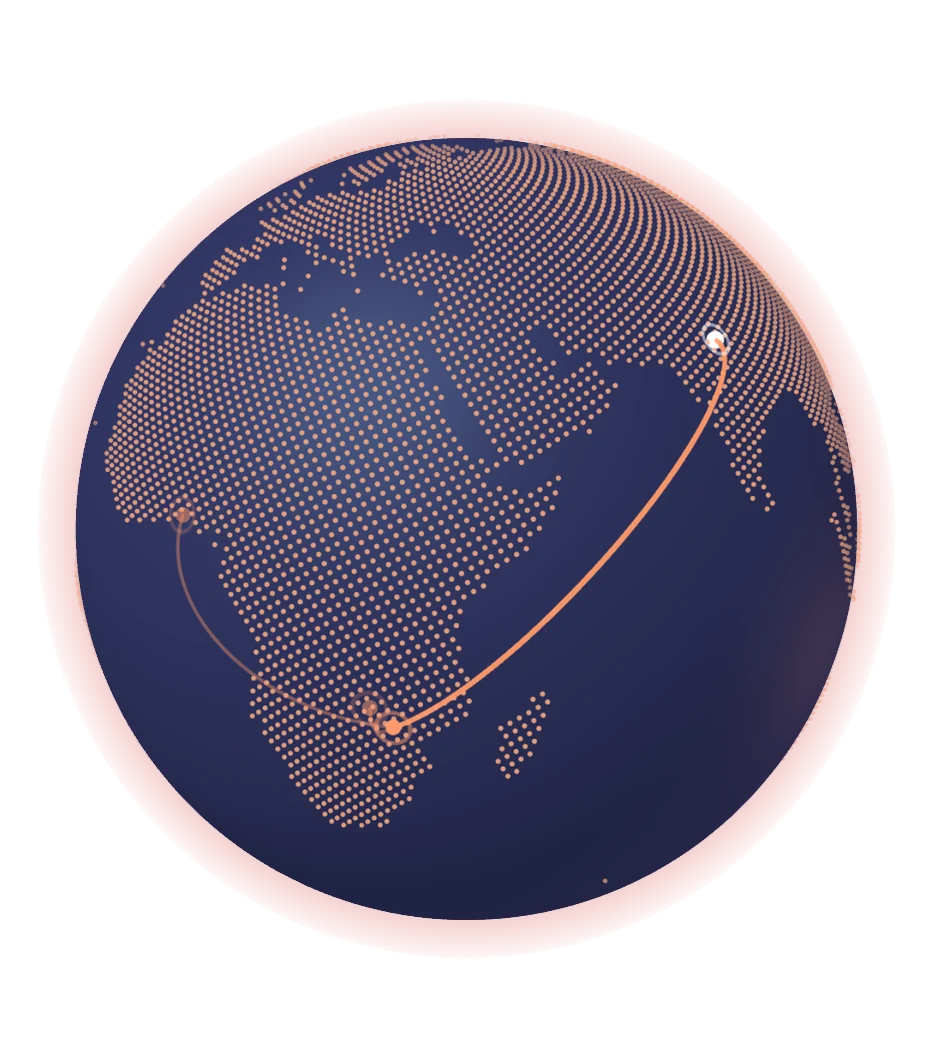
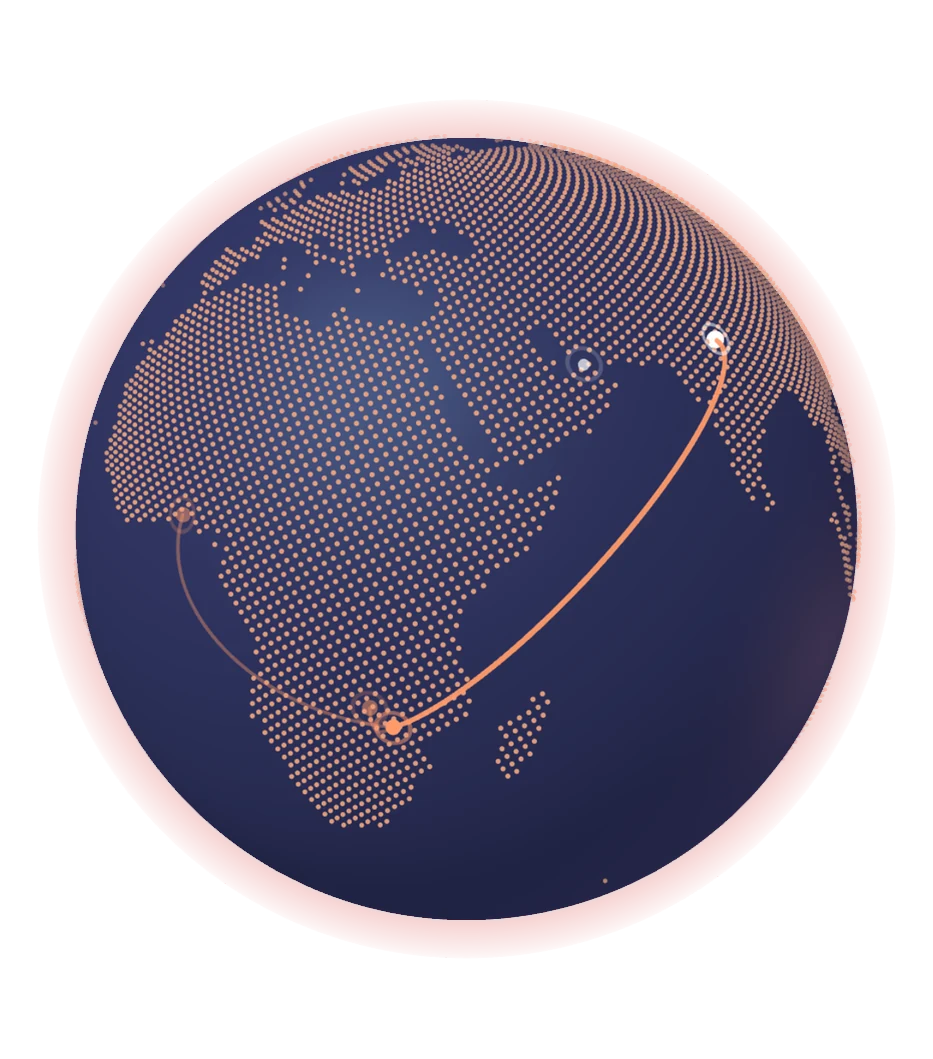
Audit fixes: restore what mattered, Dubai back as a team marker
Restored after a full audit against the resume:
- "My first 90 days in a new product role", word for word, ahead of the tools list.
- The fit check's location question (now seven questions again), including
  "UAE or the Middle East", without the repeated availability lines and without
  the "Based in Harare today" contradiction.
- Hero availability, in the resume's words: "To join immediately".
- A Call button in the contact section (the number is on the resume).

Globe: Dubai returns as a small neutral marker with no route, labelled
"UAE team I coordinate with"; fallback stills regenerated to match.

Resume wording: MBA marked "expected Dec 2026"; "webhooks" dropped (resume says
REST APIs and integrations). Case share buttons no longer read "Share Share this case".

diff --git a/index.html b/index.html
@@ -206,11 +206,11 @@
       .globe-canvas{position:absolute;inset:-4% -10% -4% -4%;cursor:grab;touch-action:pan-y}
       .globe.is-dragging .globe-canvas{cursor:grabbing}
       .globe-canvas canvas{display:block;width:100%;height:100%;outline:none}
-      .globe-still{position:absolute;inset:-4% -10% -4% -4%;background:center/contain no-repeat;background-image:url('assets/img/globe-day.webp?v=2');transition:opacity .6s ease}
-      :root[data-theme="dawn"] .globe-still{background-image:url('assets/img/globe-dawn.webp?v=2')}
-      :root[data-theme="dusk"] .globe-still{background-image:url('assets/img/globe-dusk.webp?v=2')}
-      :root[data-theme="night"] .globe-still{background-image:url('assets/img/globe-night.webp?v=2')}
-      @media (prefers-color-scheme: dark){ :root:not([data-theme]) .globe-still{background-image:url('assets/img/globe-night.webp?v=2')} }
+      .globe-still{position:absolute;inset:-4% -10% -4% -4%;background:center/contain no-repeat;background-image:url('assets/img/globe-day.webp?v=3');transition:opacity .6s ease}
+      :root[data-theme="dawn"] .globe-still{background-image:url('assets/img/globe-dawn.webp?v=3')}
+      :root[data-theme="dusk"] .globe-still{background-image:url('assets/img/globe-dusk.webp?v=3')}
+      :root[data-theme="night"] .globe-still{background-image:url('assets/img/globe-night.webp?v=3')}
+      @media (prefers-color-scheme: dark){ :root:not([data-theme]) .globe-still{background-image:url('assets/img/globe-night.webp?v=3')} }
       .globe.is-live .globe-still{opacity:0}
       .globe.is-fallback .globe-still{opacity:1}
       .globe.is-fallback .globe-canvas,.globe.is-fallback .globe-labels{display:none}
@@ -498,7 +498,7 @@
     </style>
     <link rel="stylesheet" href="assets/css/refinements.css?v=20261015n">
     <link rel="stylesheet" href="assets/css/fit.css?v=20261015">
-    <script src="assets/js/fit.js?v=20261015s" defer></script>
+    <script src="assets/js/fit.js?v=20261015u" defer></script>
     <link rel="stylesheet" href="assets/css/depth.css?v=20261015t">
     <script src="assets/js/depth.js?v=20261015t" defer></script>
     <link rel="stylesheet" href="assets/css/share.css?v=20261015">
@@ -547,6 +547,7 @@
           <dl class="facts">
             <div><dt>Based in</dt><dd>New Delhi (Delhi NCR)</dd></div>
             <div><dt>Open to</dt><dd>Relocation, hybrid and remote</dd></div>
+            <div><dt>Available</dt><dd>To join immediately</dd></div>
           </dl>
         </div>
 
@@ -558,10 +559,11 @@
             <div class="globe-label"><span>Harare<small>Launched: 8 depots</small></span></div>
             <div class="globe-label" data-side="left" data-v="below"><span>Lusaka<small>Evaluated · next rollout</small></span></div>
             <div class="globe-label" data-side="left"><span>Lagos<small>Evaluated · next rollout</small></span></div>
+            <div class="globe-label"><span>Dubai<small>UAE team I coordinate with</small></span></div>
           </div>
           <figcaption>
-            <span class="sr">Globe showing a route from New Delhi to Harare, the market I launched from zero and run, and fainter routes to Lusaka and Lagos, markets I evaluated for entry that are now the next rollouts.</span>
-            <span aria-hidden="true">Harare is the market I launched from zero. Lusaka and Lagos I evaluated; they are the next rollouts. <span class="drag">Drag to turn.</span></span>
+            <span class="sr">Globe showing a route from New Delhi to Harare, the market I launched from zero and run, and fainter routes to Lusaka and Lagos, markets I evaluated for entry that are now the next rollouts. A separate marker in Dubai shows the UAE team I coordinate with.</span>
+            <span aria-hidden="true">Harare is the market I launched from zero. Lusaka and Lagos I evaluated; they are the next rollouts. Dubai is the UAE team I coordinate with. <span class="drag">Drag to turn.</span></span>
           </figcaption>
         </figure>
       </div>
@@ -724,7 +726,7 @@
                 <div><h4>Result</h4><p>Savings did not arrive in month one. As the controls and site behaviour settled, the pilot <b>cut loss, theft and spillage over six months</b>.</p></div>
                 <div class="full"><h4>What I'd do differently</h4><p>Set the expectation of a ramp in the contract. A saving that climbs over six months reads as a miss in month two unless the buyer was shown the curve first.</p></div>
                 <p class="page-link"><a href="/work/iot-loss-control/">Read it as a full page, with related work</a></p>
-                <p class="case-share"><button class="btn btn-ghost btn-sm" type="button" data-share data-share-url="https://pryank18.github.io/work/iot-loss-control/" data-share-title="IoT loss-control platform for heavy industry: case study by Pryank Wadhera" data-share-text="A product case study by Pryank Wadhera." data-share-type="case_study" data-share-id="iot-loss-control" aria-label="Share Share this case"><svg class="share-ico" viewBox="0 0 24 24" aria-hidden="true"><path d="M12 3v12M8 7l4-4 4 4M5 12v7a2 2 0 0 0 2 2h10a2 2 0 0 0 2-2v-7"/></svg>Share this case</button></p>
+                <p class="case-share"><button class="btn btn-ghost btn-sm" type="button" data-share data-share-url="https://pryank18.github.io/work/iot-loss-control/" data-share-title="IoT loss-control platform for heavy industry: case study by Pryank Wadhera" data-share-text="A product case study by Pryank Wadhera." data-share-type="case_study" data-share-id="iot-loss-control" aria-label="Share this case: IoT loss-control platform for heavy industry: case study by Pryank Wadhera"><svg class="share-ico" viewBox="0 0 24 24" aria-hidden="true"><path d="M12 3v12M8 7l4-4 4 4M5 12v7a2 2 0 0 0 2 2h10a2 2 0 0 0 2-2v-7"/></svg>Share this case</button></p>
               </div>
             </details>
             <details id="case-upi">
@@ -739,7 +741,7 @@
                 <div><h4>Result</h4><p><b>2,000+ UPI transactions in month one of the internal pilot</b>, and the failure and reconciliation paths got real traffic before any customer relied on them.</p></div>
                 <div class="full"><h4>Alongside it</h4><p>Partnered with the GM and CEO on Project Arjun, an EV and oil &amp; gas retail infrastructure plan built on 100+ fleet and EV operator interviews; plan approved by leadership.</p></div>
                 <p class="page-link"><a href="/work/upi-checkout/">Read it as a full page, with related work</a></p>
-                <p class="case-share"><button class="btn btn-ghost btn-sm" type="button" data-share data-share-url="https://pryank18.github.io/work/upi-checkout/" data-share-title="UPI Intent and QR checkout for a B2B platform: case study by Pryank Wadhera" data-share-text="A product case study by Pryank Wadhera." data-share-type="case_study" data-share-id="upi-checkout" aria-label="Share Share this case"><svg class="share-ico" viewBox="0 0 24 24" aria-hidden="true"><path d="M12 3v12M8 7l4-4 4 4M5 12v7a2 2 0 0 0 2 2h10a2 2 0 0 0 2-2v-7"/></svg>Share this case</button></p>
+                <p class="case-share"><button class="btn btn-ghost btn-sm" type="button" data-share data-share-url="https://pryank18.github.io/work/upi-checkout/" data-share-title="UPI Intent and QR checkout for a B2B platform: case study by Pryank Wadhera" data-share-text="A product case study by Pryank Wadhera." data-share-type="case_study" data-share-id="upi-checkout" aria-label="Share this case: UPI Intent and QR checkout for a B2B platform: case study by Pryank Wadhera"><svg class="share-ico" viewBox="0 0 24 24" aria-hidden="true"><path d="M12 3v12M8 7l4-4 4 4M5 12v7a2 2 0 0 0 2 2h10a2 2 0 0 0 2-2v-7"/></svg>Share this case</button></p>
               </div>
             </details>
             <details id="case-vms">
@@ -754,7 +756,7 @@
                 <div><h4>Result</h4><p>Onboarding came down to <b>under half a day</b>, for <b>150+ vendors</b> now live on the platform.</p></div>
                 <div class="full"><h4>What I'd keep</h4><p>The fix was a rule set more than a feature, and it came from the pumps, not from a document. Every platform I've built since started the same way.</p></div>
                 <p class="page-link"><a href="/work/vendor-onboarding/">Read it as a full page, with related work</a></p>
-                <p class="case-share"><button class="btn btn-ghost btn-sm" type="button" data-share data-share-url="https://pryank18.github.io/work/vendor-onboarding/" data-share-title="Vendor onboarding in under half a day: case study by Pryank Wadhera" data-share-text="A product case study by Pryank Wadhera." data-share-type="case_study" data-share-id="vendor-onboarding" aria-label="Share Share this case"><svg class="share-ico" viewBox="0 0 24 24" aria-hidden="true"><path d="M12 3v12M8 7l4-4 4 4M5 12v7a2 2 0 0 0 2 2h10a2 2 0 0 0 2-2v-7"/></svg>Share this case</button></p>
+                <p class="case-share"><button class="btn btn-ghost btn-sm" type="button" data-share data-share-url="https://pryank18.github.io/work/vendor-onboarding/" data-share-title="Vendor onboarding in under half a day: case study by Pryank Wadhera" data-share-text="A product case study by Pryank Wadhera." data-share-type="case_study" data-share-id="vendor-onboarding" aria-label="Share this case: Vendor onboarding in under half a day: case study by Pryank Wadhera"><svg class="share-ico" viewBox="0 0 24 24" aria-hidden="true"><path d="M12 3v12M8 7l4-4 4 4M5 12v7a2 2 0 0 0 2 2h10a2 2 0 0 0 2-2v-7"/></svg>Share this case</button></p>
               </div>
             </details>
             <details id="case-market">
@@ -769,7 +771,7 @@
                 <div><h4>Result</h4><p><b>A live B2B business with 8 active depots</b>, <b>50+ enterprise and regional B2B clients in nine months</b> from a 400+ transporter and fleet network across six cities, and the Country Head role added to the product one.</p></div>
                 <div class="full"><h4>What I'd do differently</h4><p>I scoped an on-site fuel management system for a large enterprise client, hardware and digital payments included, before confirming the hardware could be sourced in-country. It's paused. In a new market, check the supply chain for the product before you check the appetite for it.</p></div>
                 <p class="page-link"><a href="/work/market-entry-zimbabwe/">Read it as a full page, with the timeline and related work</a></p>
-                <p class="case-share"><button class="btn btn-ghost btn-sm" type="button" data-share data-share-url="https://pryank18.github.io/work/market-entry-zimbabwe/" data-share-title="Market entry in Zimbabwe, from zero to 8 depots: case study by Pryank Wadhera" data-share-text="A product case study by Pryank Wadhera." data-share-type="case_study" data-share-id="market-entry-zimbabwe" aria-label="Share Share this case"><svg class="share-ico" viewBox="0 0 24 24" aria-hidden="true"><path d="M12 3v12M8 7l4-4 4 4M5 12v7a2 2 0 0 0 2 2h10a2 2 0 0 0 2-2v-7"/></svg>Share this case</button></p>
+                <p class="case-share"><button class="btn btn-ghost btn-sm" type="button" data-share data-share-url="https://pryank18.github.io/work/market-entry-zimbabwe/" data-share-title="Market entry in Zimbabwe, from zero to 8 depots: case study by Pryank Wadhera" data-share-text="A product case study by Pryank Wadhera." data-share-type="case_study" data-share-id="market-entry-zimbabwe" aria-label="Share this case: Market entry in Zimbabwe, from zero to 8 depots: case study by Pryank Wadhera"><svg class="share-ico" viewBox="0 0 24 24" aria-hidden="true"><path d="M12 3v12M8 7l4-4 4 4M5 12v7a2 2 0 0 0 2 2h10a2 2 0 0 0 2-2v-7"/></svg>Share this case</button></p>
               </div>
             </details>
           </div>
@@ -822,6 +824,12 @@
               </ul>
             </div>
           </div>
+          <h3 class="sub-h plan-h">My first 90 days in a new product role</h3>
+          <ol class="plan">
+            <li class="phase"><span class="d">Days 1–30</span><h4>Listen</h4><p>Customer and site visits, data audit, P&amp;L by product line, 1:1s with every product, engineering and sales lead. Output: a written diagnosis.</p></li>
+            <li class="phase"><span class="d">Days 31–60</span><h4>Focus</h4><p>Pick the one or two bets that matter, write the kill and park list, set baselines. Output: a one-page strategy and a scorecard the CEO and team sign.</p></li>
+            <li class="phase"><span class="d">Days 61–90</span><h4>Ship and build the system</h4><p>First visible win against a baseline, an operating cadence, and a hiring plan for the gaps.</p></li>
+          </ol>
           <h3 class="sub-h tools-h">Tools I work in</h3>
           <ul class="tools" aria-label="Tools">
             <li>Jira</li><li>Confluence</li><li>Figma</li><li>Amplitude</li><li>Tableau</li><li>SQL</li><li>Excel</li><li>Salesforce</li><li>Postman</li><li>Supabase</li><li>Python</li><li>LangGraph</li>
@@ -865,7 +873,7 @@
           <div class="fit-card" id="fit-check">
             <div>
               <h2 id="fit-h">Hiring? Check the fit in a minute.</h2>
-              <p class="lead">Answer six questions about the role. For each answer you get the matching evidence from my work, linked to where you can see it, and a summary you can send to the hiring manager.</p>
+              <p class="lead">Answer seven questions about the role. For each answer you get the matching evidence from my work, linked to where you can see it, and a summary you can send to the hiring manager.</p>
               <p class="note">Nothing is stored. The summary only leaves this page if you choose to send or copy it.</p>
             </div>
             <div class="fit-pick">
@@ -887,6 +895,7 @@
         <div class="ctas">
           <a class="btn btn-primary" href="Pryank_Wadhera_Senior_Product_Manager_Resume.pdf" download>Download resume</a>
           <a class="btn btn-ghost" href="https://linkedin.com/in/pryankwadhera" target="_blank" rel="noopener">LinkedIn</a>
+          <a class="btn btn-ghost" href="tel:+917397829282" aria-label="Call Pryank at +91 7397829282">Call</a>
           <a class="btn btn-ghost" href="https://wa.me/917397829282?text=Hi%20Pryank%2C%20I%20found%20your%20portfolio%20and%20would%20like%20to%20talk%20about%20a%20role." target="_blank" rel="noopener" data-wa="contact">WhatsApp</a>
           <a class="btn btn-ghost" href="https://github.com/pryank18" target="_blank" rel="noopener">GitHub</a>
           <a class="btn btn-ghost" href="https://pryank18.github.io/docs/" target="_blank" rel="noopener">Notion</a>
@@ -983,7 +992,7 @@
         } catch (e) { return false; }
       };
       const boot = () => {
-        if (hasGPU()) import('./assets/js/globe.js?v=20261015s').catch(() => {
+        if (hasGPU()) import('./assets/js/globe.js?v=20261015d').catch(() => {
           const g = document.getElementById('globe'); if (g) g.classList.add('is-fallback');
         });
         else { const g = document.getElementById('globe'); if (g) g.classList.add('is-fallback'); }

diff --git a/assets/js/fit.js b/assets/js/fit.js
@@ -1,5 +1,5 @@
 /* Role fit check.
-   A recruiter answers six questions about the role. Every answer maps to
+   A recruiter answers seven questions about the role. Every answer maps to
    evidence from Pryank's work (resume facts, public case studies and builds),
    so the result is a brief-specific proof of fit with links into the page.
    Nothing is stored or sent anywhere; the summary only leaves the page if the
@@ -24,10 +24,10 @@
           ev: 'I set Zimbabwe release priorities for two platforms and write the requirements taking them into the next two markets. I worked directly with the CEO, CTO and MD in India, and today lead an eight-person team alongside a country P&L. I coordinate 50+ colleagues across Mozambique, Zambia, the UAE and India.',
           ask: 'how I set roadmap priorities against North Star metrics across three markets' },
         { id: 'tpm', label: 'Technical or Platform PM', link: '#shipped',
-          ev: '100+ requirements for an IoT system (tank gauges, dispensers, flow meters, RFID nozzle tags), REST API and webhook integrations, UPI Intent and QR checkout, and IoT-server order sync. I work in SQL, Postman and Supabase, and build with Python and LangGraph.',
+          ev: '100+ requirements for an IoT system (tank gauges, dispensers, flow meters, RFID nozzle tags), REST API integrations, UPI Intent and QR checkout, and IoT-server order sync. I work in SQL, Postman and Supabase, and build with Python and LangGraph.',
           ask: 'how the IoT fuel-management system was specified and piloted' },
         { id: 'ai', label: 'AI Product Manager', link: '#builds',
-          ev: 'I built Msafara, a multi-agent product with LangGraph, RAG, evals and human-in-the-loop escalation, and ARA, an AI assistant inside Bolt & Bahi. MBA in AI for Business (2026) and the AI-First Product Leader certification.',
+          ev: 'I built Msafara, a multi-agent product with LangGraph, RAG, evals and human-in-the-loop escalation, and ARA, an AI assistant inside Bolt & Bahi. MBA in AI for Business (expected Dec 2026) and the AI-First Product Leader certification.',
           ask: 'how I bound an AI agent\'s autonomy and designed its escalation rules' },
         { id: 'growth', label: 'Growth PM', link: '#shipped',
           ev: 'A/B-tested onboarding flows, cut delivery time from 60 to 55 minutes with A/B-tested fixes, and won 50+ enterprise and regional B2B clients in nine months from a 400+ prospect network.',
@@ -59,7 +59,7 @@
         { id: 'ops', label: 'Marketplace, logistics or supply chain', link: '#shipped',
           ev: 'Delivery time cut from 60 to 55 minutes through tested routing, slot-booking and order-sync fixes; vendor and customer delivery SOPs; procurement, dispatch and supplier allocation run against a demand forecast in a new market.' },
         { id: 'ai', label: 'AI or agentic products', link: '#builds',
-          ev: 'Msafara, a multi-agent vendor-coordination product (LangGraph, RAG, evals, human-in-the-loop), and ARA, an AI assistant inside a GST ledger app. MBA in AI for Business, 2026.' },
+          ev: 'Msafara, a multi-agent vendor-coordination product (LangGraph, RAG, evals, human-in-the-loop), and ARA, an AI assistant inside a GST ledger app. MBA in AI for Business, expected Dec 2026.' },
         { id: 'b2c', label: 'Consumer app', link: '#builds',
           ev: 'Built Pravesh (exam prep with guardian consent flows) and FitNexx (subscription fitness) end to end, and designed Kids Wallet, a UPI product with parental controls.' },
         { id: 'retail', label: 'E-commerce, retail or distribution', link: '#builds',
@@ -99,7 +99,7 @@
       hint: 'Pick up to three.',
       options: [
         { id: 'tech', label: 'Technical fluency: APIs, SQL, data', link: '#shipped',
-          ev: 'SQL and Excel for demand forecasting, REST APIs and webhooks, Postman, Supabase, and Python with LangGraph and an LLM API. 100+ IoT requirements written and shipped.' },
+          ev: 'SQL and Excel for demand forecasting, REST APIs and integrations, Postman, Supabase, and Python with LangGraph and an LLM API. 100+ IoT requirements written and shipped.' },
         { id: 'exp', label: 'Analytics and experimentation', link: '#shipped',
           ev: 'Funnel analytics in Amplitude and Tableau, A/B-tested delivery fixes (60 to 55 minutes) and onboarding flows, and every goal set against a baseline.' },
         { id: 'aiskill', label: 'Hands-on AI and LLMs', link: '#builds',
@@ -125,6 +125,21 @@
           ev: 'Over seven years in total, over five in product, and a country P&L and team on top.' },
         { id: 'y8', label: '8 to 12 years', link: '#path',
           ev: 'Over seven years in total and over five in product, with scope usually seen at this level: a country P&L, an eight-person team, a 0-to-1 vendor platform and a market launched from zero.' }
+      ]
+    },
+    {
+      id: 'where', short: 'Location', title: 'Where and how will they work?', type: 'one',
+      options: [
+        { id: 'remote', label: 'Remote', link: '#top',
+          ev: 'I already work with teams across India, Africa and the UAE without sharing an office.' },
+        { id: 'india', label: 'On-site or hybrid in India', link: '#top',
+          ev: 'Based in New Delhi and open to any Indian city.' },
+        { id: 'uae', label: 'UAE or the Middle East', link: '#top',
+          ev: 'I coordinate with colleagues in the UAE today and I\'m ready to relocate there.' },
+        { id: 'africa', label: 'Africa', link: '#top',
+          ev: 'I launched and run a B2B business in Zimbabwe and write the requirements for the next rollouts in Zambia and Nigeria.' },
+        { id: 'abroad', label: 'Elsewhere, with relocation', link: '#top',
+          ev: 'I\'ve moved country for work before (India to Zimbabwe in 2025) and I\'m ready to relocate again.' }
       ]
     }
   ];
@@ -180,7 +195,7 @@
     var h = el('h2', 'fit-title', 'Hiring a product leader? Check the fit in 60 seconds.');
     h.id = 'fit-title'; h.tabIndex = -1;
     bub.appendChild(h);
-    bub.appendChild(el('p', 'fit-hint', 'Six quick questions about your role. For every answer you get the matching evidence from my work, with links to see it on this page, and a summary you can send to the hiring manager.'));
+    bub.appendChild(el('p', 'fit-hint', 'Seven quick questions about your role. For every answer you get the matching evidence from my work, with links to see it on this page, and a summary you can send to the hiring manager.'));
     bub.appendChild(el('span', 'fit-sign', 'Pryank'));
     note.appendChild(bub);
     wrap.appendChild(note);
@@ -279,7 +294,7 @@
   }
   function summaryLine() {
     var role = labels('role')[0] || 'product';
-    var bits = [labels('product').join(', '), labels('company')[0], labels('stage')[0], labels('skills').join(', '), labels('years')[0]].filter(Boolean);
+    var bits = [labels('product').join(', '), labels('company')[0], labels('stage')[0], labels('skills').join(', '), labels('years')[0], labels('where')[0]].filter(Boolean);
     return { role: role, text: role + ' (' + bits.join('; ') + ')' };
   }
 

diff --git a/assets/js/globe.js b/assets/js/globe.js
@@ -132,6 +132,7 @@ function start(host) {
   const HARARE = { lat: -17.83, lon: 31.05 };
   const LUSAKA = { lat: -15.39, lon: 28.32 };
   const LAGOS = { lat: 6.52, lon: 3.38 };
+  const DUBAI = { lat: 25.2, lon: 55.27 };
   // New Delhi -> Harare: the market launched and run (solid). Harare -> Lusaka and Lagos: markets
   // evaluated for entry only (faint), so the globe never reads as operations in every city.
   const routes = [
@@ -140,8 +141,10 @@ function start(host) {
     { from: HARARE, to: LAGOS, delay: 1.7, evaluated: true }
   ];
   // order matches the .globe-label elements in index.html
-  const cities = [HOME, HARARE, LUSAKA, LAGOS];
+  // Dubai is not a market: a small neutral marker with no route, for the UAE team I coordinate with.
+  const cities = [HOME, HARARE, LUSAKA, LAGOS, DUBAI];
   const EVALUATED = new Set([LUSAKA, LAGOS]);
+  const TEAM = new Set([DUBAI]);
 
   const arcMat = new THREE.MeshBasicMaterial({ color: 0xf2a93b, transparent: true, opacity: 0.95, depthWrite: false });
   const pulseMat = new THREE.MeshBasicMaterial({ color: 0xffe2ad, transparent: true, depthWrite: false, blending: THREE.AdditiveBlending });
@@ -149,6 +152,7 @@ function start(host) {
   const evalArcMat = new THREE.MeshBasicMaterial({ color: 0xf2a93b, transparent: true, opacity: 0.4, depthWrite: false });
   const evalMarkerMat = new THREE.MeshBasicMaterial({ color: 0xf2a93b, transparent: true, opacity: 0.5 });
   const homeMat = new THREE.MeshBasicMaterial({ color: 0xedf1f5 });
+  const teamMat = new THREE.MeshBasicMaterial({ color: 0xedf1f5, transparent: true, opacity: 0.7 });
 
   const arcs = routes.map((m) => {
     const a0 = toVec(m.from.lat, m.from.lon);
@@ -178,19 +182,21 @@ function start(host) {
   const rings = [];
   cities.forEach((c, i) => {
     const p = toVec(c.lat, c.lon, 1.003);
-    const dot = new THREE.Mesh(new THREE.SphereGeometry(i === 0 ? 0.019 : 0.016, 20, 20), i === 0 ? homeMat : (EVALUATED.has(c) ? evalMarkerMat : markerMat));
+    const team = TEAM.has(c);
+    const dot = new THREE.Mesh(new THREE.SphereGeometry(i === 0 ? 0.019 : (team ? 0.012 : 0.016), 20, 20),
+      i === 0 ? homeMat : (team ? teamMat : (EVALUATED.has(c) ? evalMarkerMat : markerMat)));
     dot.position.copy(p);
     dot.renderOrder = 5;
     spin.add(dot);
     const ring = new THREE.Mesh(
       new THREE.RingGeometry(0.024, 0.031, 48),
-      new THREE.MeshBasicMaterial({ color: i === 0 ? 0xedf1f5 : 0xf2a93b, transparent: true, side: THREE.DoubleSide, depthWrite: false })
+      new THREE.MeshBasicMaterial({ color: (i === 0 || team) ? 0xedf1f5 : 0xf2a93b, transparent: true, side: THREE.DoubleSide, depthWrite: false })
     );
     ring.position.copy(toVec(c.lat, c.lon, 1.006));
     ring.lookAt(toVec(c.lat, c.lon, 2));
     ring.renderOrder = 5;
     spin.add(ring);
-    rings.push({ ring, phase: i * 0.6, home: i === 0, dim: EVALUATED.has(c) ? 0.45 : 1 });
+    rings.push({ ring, phase: i * 0.6, home: i === 0 || team, dim: team ? 0.35 : (EVALUATED.has(c) ? 0.45 : 1) });
   });
 
   // ---------- view + interaction ----------
@@ -256,7 +262,7 @@ function start(host) {
     const arc = get('--globe-arc', '#f2a93b');
     arcMat.color.set(arc); markerMat.color.set(arc); evalArcMat.color.set(arc); evalMarkerMat.color.set(arc);
     const home = get('--globe-home', '#edf1f5');
-    homeMat.color.set(home);
+    homeMat.color.set(home); teamMat.color.set(home);
     rings.forEach(r => r.ring.material.color.set(r.home ? home : arc));
     arcs.forEach(a => {
       a.pulse.material.color.set(get('--globe-pulse', '#ffe2ad'));

diff --git a/sw.js b/sw.js
@@ -5,7 +5,7 @@
    - Pages and scripts are network-first, so a deploy shows up immediately;
      the cache is only a fallback when the visitor is offline.
    Bump VERSION when the list of precached files changes. */
-const VERSION = 'pw-2026-10-15-share-v17';
+const VERSION = 'pw-2026-10-15-audit-v18';
 const PRECACHE = [
   '/',
   '/manifest.webmanifest',
